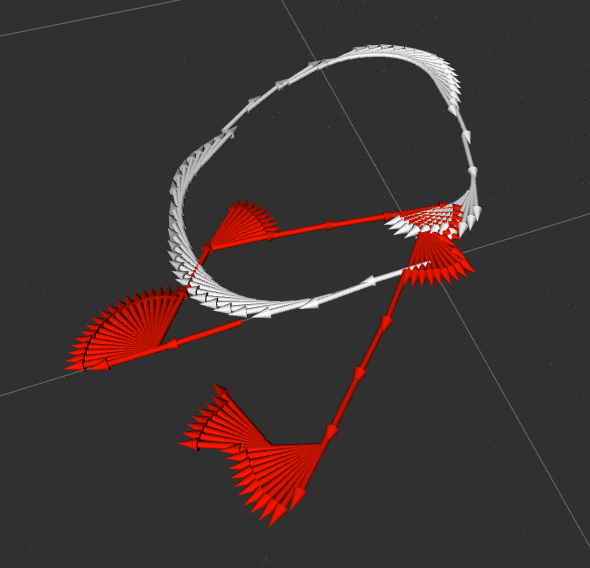
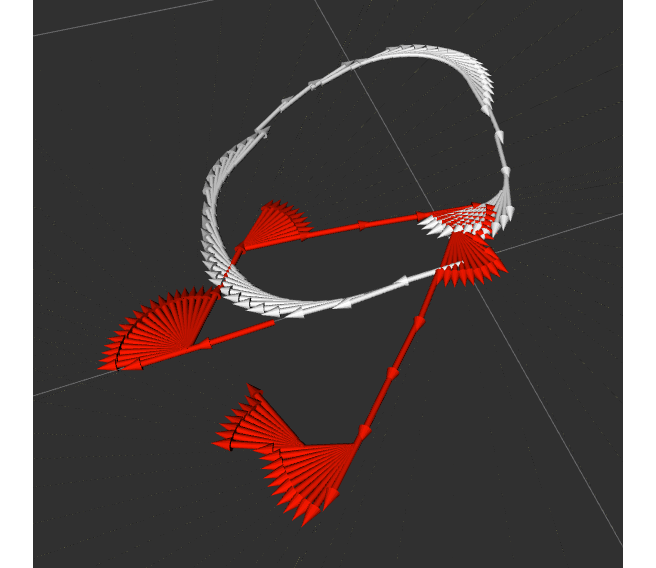
Subfigures

diff --git a/docs/final/chapters/06_software.tex b/docs/final/chapters/06_software.tex
@@ -830,16 +830,19 @@ $Y$ directions.
 
 
 \begin{figure}[!ht]
-	\centering
-	\includegraphics[width=0.3\textwidth]{graphs/bad_ekf}
-	\caption{EKF output for square path before fixing parameters}\label{fig:bad_ekf}
-\end{figure}
-
-
-\begin{figure}[!ht]
-	\centering
-	\includegraphics[width=0.3\textwidth]{graphs/ekf}
-	\caption{EKF output for square path after fixing parameters}\label{fig:ekf}
+  \centering
+  \begin{subfigure}[b]{0.4\textwidth}
+    \includegraphics[width=\textwidth]{graphs/bad_ekf}
+    \caption{Before optimising parameters}
+    \label{fig:ekf_output/bad}
+  \end{subfigure}
+  ~
+  \begin{subfigure}[b]{0.4\textwidth}
+    \includegraphics[width=\textwidth]{graphs/ekf}
+    \caption{After optimising parameters}
+    \label{fig:ekf_output/good}
+  \end{subfigure}
+  \caption[Odometry output]{Odometry output (wheel odometry in red, filtered odometry in white)}\label{fig:ekf_output}
 \end{figure}
 
 
